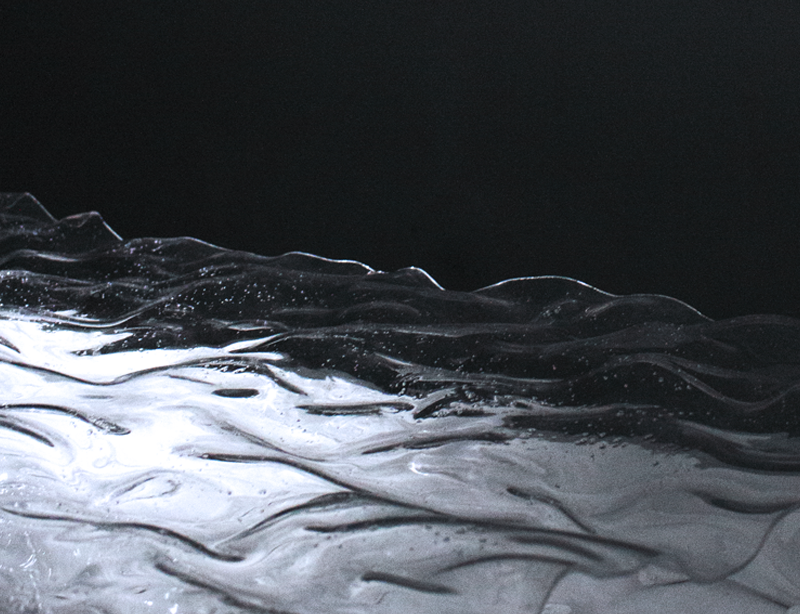
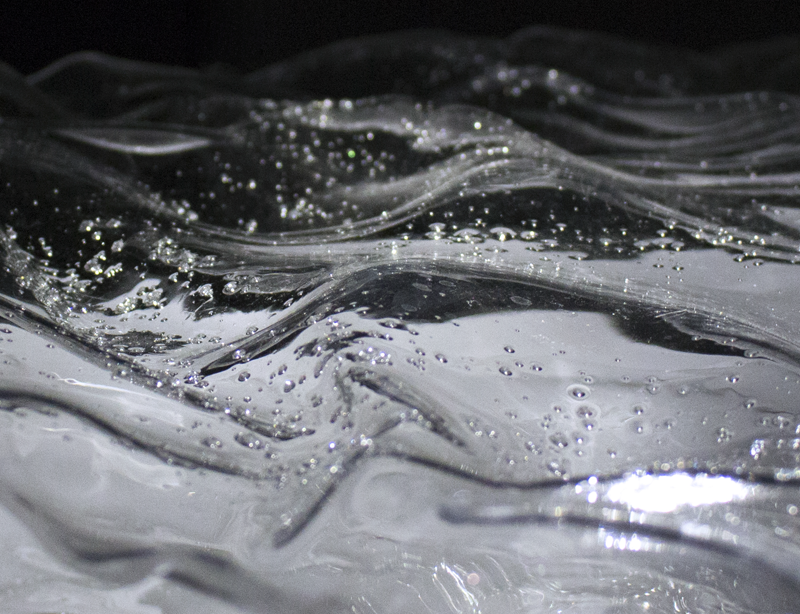
floating or sinking 2 edits

diff --git a/floating-or-sinking-2.html b/floating-or-sinking-2.html
@@ -46,34 +46,29 @@
     <div class="project-text-box">
       <div class="project-text">
         <p style="text-decoration: underline">“Floating or Sinking? (pt.2)”</p>
-        <p>Tus maionse quossint
-          enis molupicius, corru
-          acepername veligen
-          imaximodis dolupid que
-          volecat inullatincto
-          dolectu rerest volo
-          moluptat officat que
-          re nus, consenieni dol
-          mosam fugiaes eos unt
-          officiatur si ut et
-          aut ea dollandi quat</p>
-          <p>Unt audisim que necae
-            optatia vellabor.</p>
+        <p>The second part of "¿Floating or Sinking?" is a light installation that contains the elements of our previous studies. The immersive environment magnifies the senses through a variety of changed perspectives, cross disciplining elements of vision and sound. An experience that provokes a multilayered journey that is more than just sensory– but social, intellectual, and emotional as well.
+        </p>
+
+        <p>Collaboration with <a href="http://www.elaine-lin.com/">Elaine Lin</a></p>
+
+
+        
           </div>
         </div>
 
         <div class="project-images">
+
           <img src="images/FOS2_01.png">
           <img src="images/FOS2_02.png">
           <img src="images/FOS2_04.png">
           <img src="images/FOS2_05.png">
-          <img src="images/FOS2_06.png">
+            <img src="images/FOS2_11.png">
           <img src="images/FOS2_07.png">
           <img src="images/FOS2_08.png">
           <img src="images/FOS2_09.png">
  
           <div class="next">
-            <h3><a href="project.html">next project</a></h3>
+            <h3><a href="project.html">next</a></h3>
           </div>
         </div>
 
